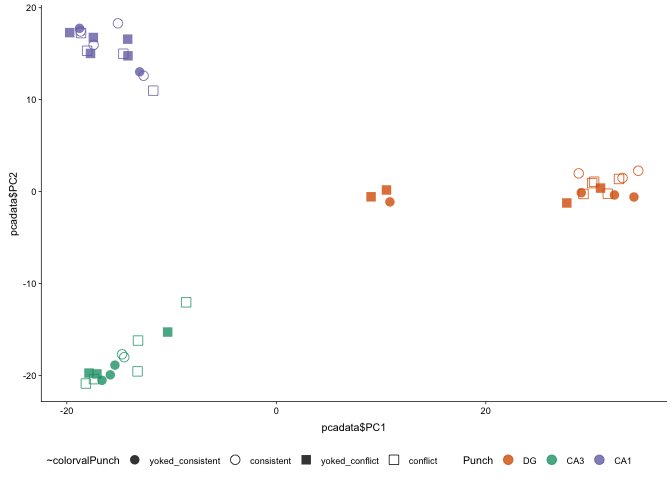
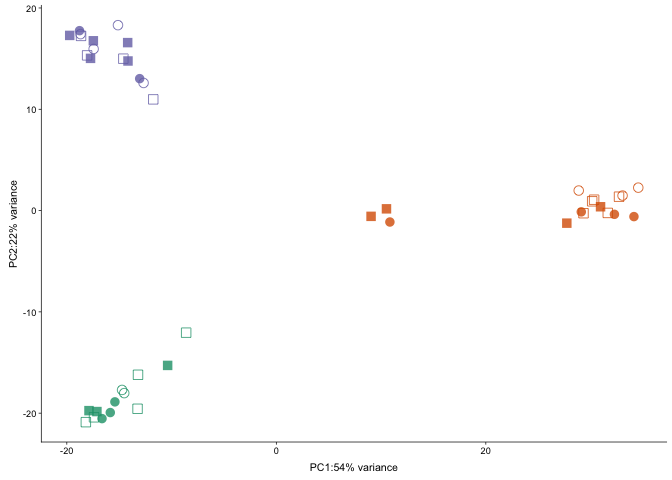
reran 02b

diff --git a/scripts/02b_rnaseqALL.md b/scripts/02b_rnaseqALL.md
@@ -42,7 +42,8 @@ Design
 ------
 
 The major comparision here is - Hippocampal subfield: “DG”,“CA3”, “CA1”
-- Behavioral Groups: “conflict”, “consistent”
+- Behavioral Groups: “yoked\_consistent”, “consistent”,
+“yoked\_conflict” , “conflict”
 
     colData <- read.csv("../data/02a_colData.csv", header = T)
     countData <- read.csv("../data/02a_countData.csv", header = T, check.names = F, row.names = 1)
@@ -651,23 +652,23 @@ this is for consistent conflict yoked-conflict
     ## FALSE 
     ## 17921
 
-    contrast1 <- resvals(contrastvector = c("Punch", "CA1", "DG"), mypval = 0.1) # 2526 or 2765
+    contrast1 <- resvals(contrastvector = c("Punch", "CA1", "DG"), mypval = 0.1) # 2765
 
     ## [1] 2765
 
-    contrast2 <- resvals(contrastvector = c("Punch", "CA1", "CA3"), mypval = 0.1) # 2022 or 2165
+    contrast2 <- resvals(contrastvector = c("Punch", "CA1", "CA3"), mypval = 0.1) # 2165
 
     ## [1] 2165
 
-    contrast3 <- resvals(contrastvector = c("Punch", "CA3", "DG"), mypval = 0.1) # 3145 or 2948
+    contrast3 <- resvals(contrastvector = c("Punch", "CA3", "DG"), mypval = 0.1) # 2948
 
     ## [1] 2948
 
-    contrast4 <- resvals(contrastvector = c("APA2", "consistent", "yoked_consistent"), mypval = 0.1) # 114 or 114
+    contrast4 <- resvals(contrastvector = c("APA2", "consistent", "yoked_consistent"), mypval = 0.1) #  114
 
     ## [1] 114
 
-    contrast5 <- resvals(contrastvector = c("APA2", "conflict", "yoked_conflict"), mypval = 0.1) # 60 or 61
+    contrast5 <- resvals(contrastvector = c("APA2", "conflict", "yoked_conflict"), mypval = 0.1) # 61
 
     ## [1] 61
 
@@ -675,7 +676,7 @@ this is for consistent conflict yoked-conflict
 
     ## [1] 0
 
-    contrast7 <- resvals(contrastvector = c("APA2", "yoked_conflict", "yoked_consistent"), mypval = 0.1) # 35 or 40
+    contrast7 <- resvals(contrastvector = c("APA2", "yoked_conflict", "yoked_consistent"), mypval = 0.1) # 40
 
     ## [1] 40
 
@@ -808,11 +809,6 @@ Principle component analysis
     ## Residuals   40  405.5  10.137
 
 ![](../figures/02b_RNAseqAll/pca-1.png)
-
-    ## quartz_off_screen 
-    ##                 2
-
-![](../figures/02b_RNAseqAll/pca-2.png)![](../figures/02b_RNAseqAll/pca-3.png)
 
     ## quartz_off_screen 
     ##                 2
@@ -1349,11 +1345,11 @@ plot single gene counts
 
     plotCounts(dds, "Prkcz", intgroup = "Punch", normalized = TRUE)
 
-![](../figures/02b_RNAseqAll/counts-1.png)
+![](../figures/02b_RNAseqAll/Prkcz-1.png)
 
     plotCounts(dds, "Prkcz", intgroup = "APA2", normalized = TRUE)
 
-![](../figures/02b_RNAseqAll/counts-2.png)
+![](../figures/02b_RNAseqAll/Prkcz-2.png)
 
 Observed versus expected ration of DEGs
 ---------------------------------------
